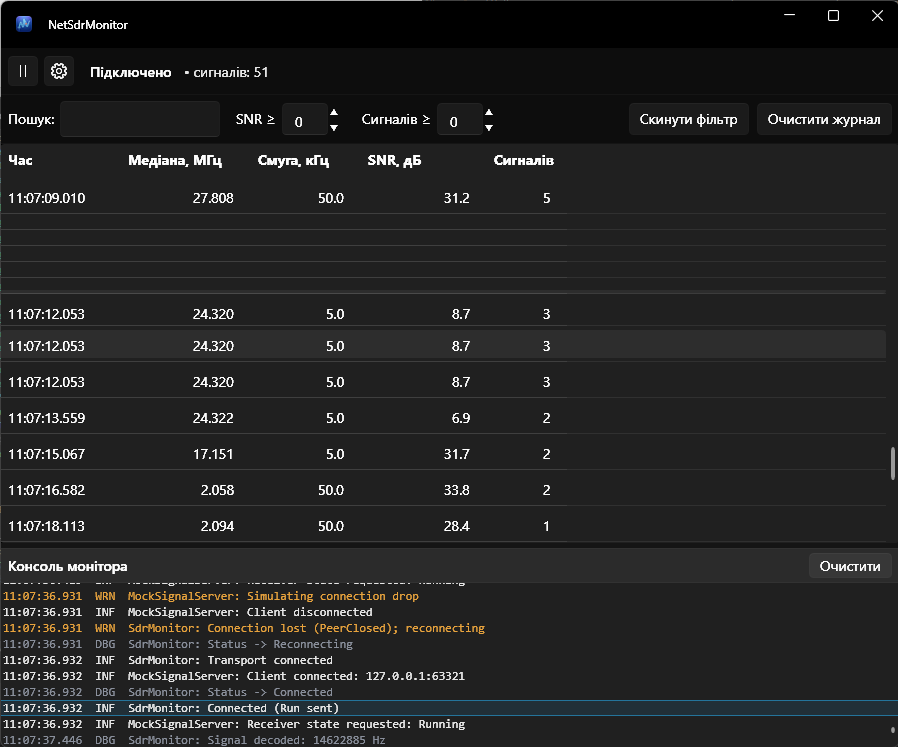
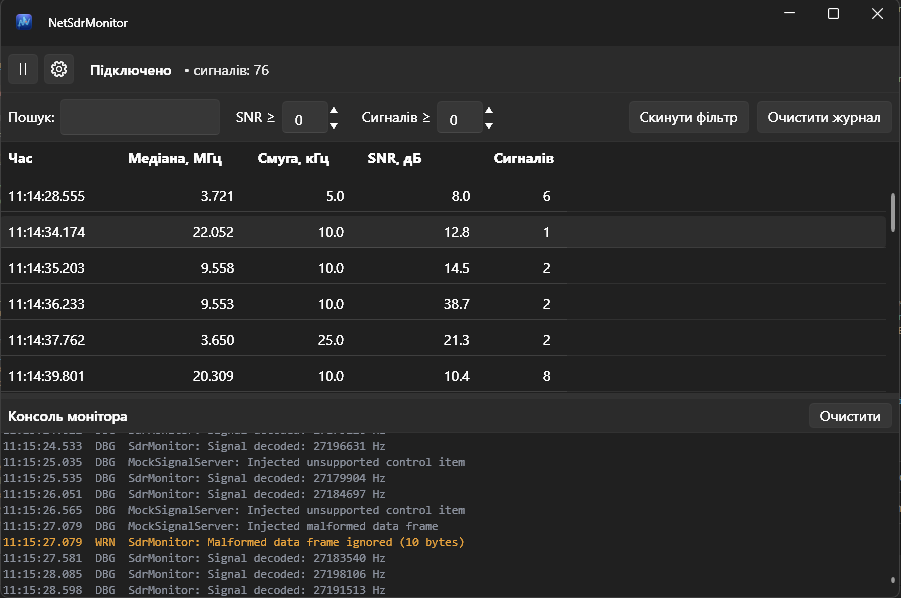
Фікс блимаючого вікна при старті в треї

diff --git a/NetSdrMonitor.Desktop/App.xaml.cs b/NetSdrMonitor.Desktop/App.xaml.cs
@@ -17,69 +17,72 @@ public partial class App : Application
    private ServiceProvider? _services;
    private ILoggerFactory? _loggerFactory;
    private SimulationController? _simulation;
+
    [SuppressMessage("ReSharper", "AsyncVoidMethod")]
    protected async override void OnStartup(StartupEventArgs e)
    {
-       base.OnStartup(e);
+      base.OnStartup(e);
 
-       try
-       {
-           var collection = new ServiceCollection();
-           collection.AddSqliteSignalStorage();
-           _services = collection.BuildServiceProvider();
-           var repositoryFactory = _services.GetRequiredService<ISignalRecordRepositoryFactory>();
+      try
+      {
+         var collection = new ServiceCollection();
+         collection.AddSqliteSignalStorage();
+         _services = collection.BuildServiceProvider();
+         var repositoryFactory = _services.GetRequiredService<ISignalRecordRepositoryFactory>();
 
-           var logSink = new UiLogSink();
-           _loggerFactory = LoggerFactory.Create(builder =>
-           {
-               builder.SetMinimumLevel(LogLevel.Debug);
-               builder.AddProvider(new UiLoggerProvider(logSink, LogLevel.Debug));
-           });
+         var logSink = new UiLogSink();
+         _loggerFactory = LoggerFactory.Create(builder =>
+         {
+            builder.SetMinimumLevel(LogLevel.Debug);
+            builder.AddProvider(new UiLoggerProvider(logSink, LogLevel.Debug));
+         });
 
-           var store = new JsonSettingsStore();
-           AppSettings settings = store.Load();
-           _simulation = new SimulationController(settings, repositoryFactory, _loggerFactory, logSink);
+         var store = new JsonSettingsStore();
+         AppSettings settings = store.Load();
+         _simulation = new SimulationController(settings, repositoryFactory, _loggerFactory, logSink);
 
-           var main = new MainWindow(_simulation, store);
-           MainWindow = main;
-           ThemeApplier.Initialize(main, settings.Theme);
-           main.Tray.Attach(_simulation, store);
+         var main = new MainWindow(_simulation, store);
+         MainWindow = main;
+         ThemeApplier.Initialize(main, settings.Theme);
+         main.Tray.Attach(_simulation, store);
 
-           main.Show();
-           if (settings.HideMainWindowOnStartup)
-               main.Hide();
+         if (settings.HideMainWindowOnStartup)
+            main.Hide();
+         else
+            main.Show();
 
-           await _simulation.StartAsync();
-       }
-       catch (Exception ex)
-       {
-           // старт не вдався (сховище, порт тощо) — показуємо причину й коректно завершуємось, а не падаємо мовчки
-           MessageBox.Show(ex.Message, "NetSdrMonitor — помилка запуску",
-                           MessageBoxButton.OK, MessageBoxImage.Error);
-           Shutdown(-1);
-       }
+         await _simulation.StartAsync();
+      }
+      catch (Exception ex)
+      {
+         // старт не вдався (сховище, порт тощо) — показуємо причину й коректно завершуємось, а не падаємо мовчки
+         MessageBox.Show(ex.Message, "NetSdrMonitor — помилка запуску",
+                         MessageBoxButton.OK, MessageBoxImage.Error);
+         Shutdown(-1);
+      }
    }
+
    [SuppressMessage("ReSharper", "AsyncVoidMethod")]
    protected async override void OnExit(ExitEventArgs e)
    {
-       try
-       {
-           if (_simulation is not null)
-               await _simulation.DisposeAsync();
+      try
+      {
+         if (_simulation is not null)
+            await _simulation.DisposeAsync();
 
-           if (_services is not null)
-               await _services.DisposeAsync();
+         if (_services is not null)
+            await _services.DisposeAsync();
 
-           _loggerFactory?.Dispose();
-       }
-       catch (Exception ex)
-       {
-           // помилки звільнення на виході не критичні — застосунок усе одно закривається
-           System.Diagnostics.Debug.WriteLine($"Shutdown cleanup failed: {ex}");
-       }
-       finally
-       {
-           base.OnExit(e);
-       }
+         _loggerFactory?.Dispose();
+      }
+      catch (Exception ex)
+      {
+         // помилки звільнення на виході не критичні — застосунок усе одно закривається
+         System.Diagnostics.Debug.WriteLine($"Shutdown cleanup failed: {ex}");
+      }
+      finally
+      {
+         base.OnExit(e);
+      }
    }
 }

diff --git a/NetSdrMonitor.Desktop/Features/Settings/SettingsWindow.xaml.cs b/NetSdrMonitor.Desktop/Features/Settings/SettingsWindow.xaml.cs
@@ -1,4 +1,5 @@
 using System.Windows;
+using System.Windows.Interop;
 using NetSdrMonitor.Desktop.Settings;
 using NetSdrMonitor.Desktop.Theming;
 
@@ -35,7 +36,15 @@ public partial class SettingsWindow : Window
          return;
       }
 
-      var dialog = new SettingsWindow(current, store) { Owner = owner };
+      var dialog = new SettingsWindow(current, store);
+
+      // Owner призначаємо лише якщо головне вікно вже показували: непоказане вікно ще без HWND,
+      // і WPF кине InvalidOperationException. Без власника — центруємо діалог по екрану.
+      if (owner is not null && new WindowInteropHelper(owner).Handle != IntPtr.Zero)
+         dialog.Owner = owner;
+      else
+         dialog.WindowStartupLocation = WindowStartupLocation.CenterScreen;
+
       _open = dialog;
       try
       {